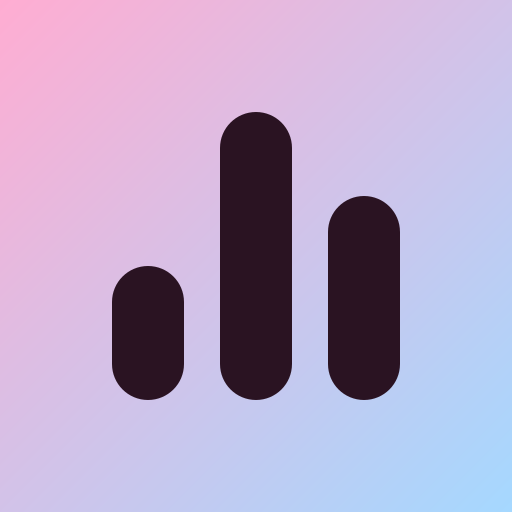
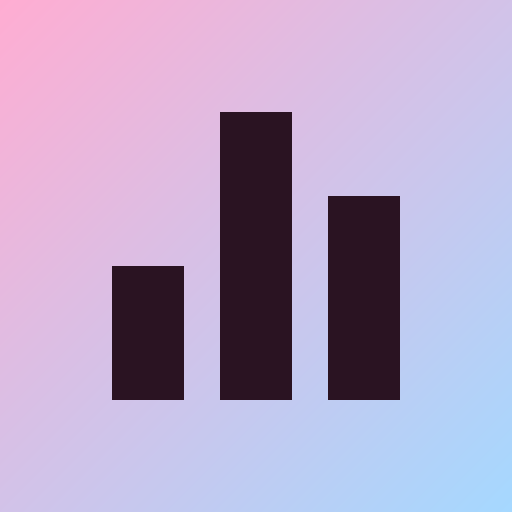
Square corners everywhere

diff --git a/style.css b/style.css
@@ -1,4 +1,4 @@
-/* Soft, rounded and tinted: pink is the main accent, baby blue the second one. */
+/* Tinted surfaces and square corners: pink is the main accent, baby blue the second one. */
 :root {
   color-scheme: dark;
   --bg: #15121b;
@@ -50,69 +50,66 @@ header {
 }
 h1 { margin: 0; font-size: 32px; font-weight: 800; letter-spacing: -0.02em; }
 h1::after { content: "."; color: var(--pink); }
-#sync { background: var(--blue-soft); color: var(--blue); font-size: 13px; font-weight: 500; padding: 5px 12px; border-radius: 999px; }
+#sync { background: var(--blue-soft); color: var(--blue); font-size: 13px; font-weight: 500; padding: 5px 12px; }
 #sync:empty { display: none; }
 
 #controls { padding: 0 16px; }
-.segments { display: flex; gap: 4px; background: var(--surface); border-radius: 999px; padding: 4px; margin-bottom: 10px; }
-.segments button { flex: 1; padding: 8px 0; border-radius: 999px; font-size: 14px; font-weight: 500; color: var(--muted); transition: background 0.2s var(--ease), color 0.2s; }
+.segments { display: flex; gap: 4px; background: var(--surface); padding: 4px; margin-bottom: 10px; }
+.segments button { flex: 1; padding: 8px 0; font-size: 14px; font-weight: 500; color: var(--muted); transition: background 0.2s var(--ease), color 0.2s; }
 .segments button[aria-pressed="true"] { background: var(--blue); color: var(--on-accent); font-weight: 600; }
 .chips { display: flex; gap: 6px; overflow-x: auto; padding-bottom: 12px; scrollbar-width: none; }
 .chips::-webkit-scrollbar { display: none; }
-.chips button { flex: none; padding: 7px 14px; border-radius: 999px; background: var(--surface); font-size: 14px; font-weight: 500; transition: background 0.2s var(--ease), color 0.2s; }
+.chips button { flex: none; padding: 7px 14px; background: var(--surface); font-size: 14px; font-weight: 500; transition: background 0.2s var(--ease), color 0.2s; }
 .chips button[aria-pressed="true"] { background: var(--pink); color: var(--on-accent); font-weight: 600; }
 .dates { display: flex; gap: 8px; align-items: center; padding-bottom: 12px; color: var(--muted); }
-.dates input { font: inherit; font-size: 14px; color: var(--text); background: var(--surface); border: 0; border-radius: 14px; padding: 8px 10px; min-width: 0; flex: 1; }
+.dates input { font: inherit; font-size: 14px; color: var(--text); background: var(--surface); border: 0; padding: 8px 10px; min-width: 0; flex: 1; }
 button:active { transform: scale(0.96); }
 
 main { flex: 1; overflow-y: auto; padding: 0 16px 110px; -webkit-overflow-scrolling: touch; }
 main.enter > * { animation: rise 0.2s var(--ease) both; }
 @keyframes rise { from { opacity: 0; transform: translateY(8px); } }
 .hint { color: var(--muted); text-align: center; margin: 40px 0; }
-.card { background: var(--surface); border-radius: 24px; padding: 16px; margin-bottom: 12px; }
+.card { background: var(--surface); padding: 16px; margin-bottom: 12px; }
 h2 { font-size: 14px; font-weight: 600; color: var(--blue); margin: 18px 8px 8px; }
 .card h2 { margin: 0 0 6px; color: var(--muted); }
 
-/* Lists: separate rounded items with a small gap; the group's ends are rounder. */
+/* Lists: separate items with a small gap. */
 .rows { display: flex; flex-direction: column; gap: 3px; }
-.row { display: flex; align-items: center; gap: 12px; padding: 10px 14px; background: var(--surface); border-radius: 8px; }
-.row:first-child { border-top-left-radius: 22px; border-top-right-radius: 22px; }
-.row:last-child { border-bottom-left-radius: 22px; border-bottom-right-radius: 22px; }
+.row { display: flex; align-items: center; gap: 12px; padding: 10px 14px; background: var(--surface); }
 .text { flex: 1; min-width: 0; }
 .name, .sub { white-space: nowrap; overflow: hidden; text-overflow: ellipsis; }
 .name { font-weight: 600; }
 .sub { color: var(--muted); font-size: 14px; }
 .side { color: var(--muted); font-size: 14px; font-variant-numeric: tabular-nums; flex: none; }
-.art { width: 46px; height: 46px; border-radius: 12px; background: var(--surface-2); object-fit: cover; flex: none; }
+.art { width: 46px; height: 46px; background: var(--surface-2); object-fit: cover; flex: none; }
 
 /* Now playing: the one loud card. */
-.playing { display: flex; align-items: center; gap: 14px; background: linear-gradient(120deg, var(--pink), var(--blue)); color: var(--on-accent); border-radius: 28px; }
-.playing .art { width: 68px; height: 68px; border-radius: 18px; background: rgb(0 0 0 / 0.15); }
+.playing { display: flex; align-items: center; gap: 14px; background: linear-gradient(120deg, var(--pink), var(--blue)); color: var(--on-accent); }
+.playing .art { width: 68px; height: 68px; background: rgb(0 0 0 / 0.15); }
 .playing .label { display: flex; align-items: center; gap: 6px; font-size: 13px; font-weight: 600; opacity: 0.8; }
 .playing .name { font-size: 18px; font-weight: 700; }
 .playing .sub { color: inherit; opacity: 0.8; }
 .eq { display: inline-flex; align-items: flex-end; gap: 2px; height: 11px; }
-.eq i { width: 3px; height: 100%; border-radius: 2px; background: currentColor; transform-origin: bottom; animation: eq 0.9s ease-in-out infinite alternate; }
+.eq i { width: 3px; height: 100%; background: currentColor; transform-origin: bottom; animation: eq 0.9s ease-in-out infinite alternate; }
 .eq i:nth-child(2) { animation-delay: -0.3s; }
 .eq i:nth-child(3) { animation-delay: -0.6s; }
 @keyframes eq { from { transform: scaleY(0.3); } to { transform: scaleY(1); } }
 
 /* Top lists: number one is a hero, two and three get a blue badge. */
-.rank { width: 28px; height: 28px; border-radius: 50%; display: grid; place-items: center; background: var(--surface-2); color: var(--muted); font-size: 13px; font-weight: 600; font-variant-numeric: tabular-nums; flex: none; }
+.rank { width: 28px; height: 28px; display: grid; place-items: center; background: var(--surface-2); color: var(--muted); font-size: 13px; font-weight: 600; font-variant-numeric: tabular-nums; flex: none; }
 .top .row:nth-child(-n+3) .rank { background: var(--blue-soft); color: var(--blue); }
-.top .row:first-child { background: var(--pink); color: var(--on-accent); padding: 18px 16px; border-radius: 28px; margin-bottom: 6px; }
+.top .row:first-child { background: var(--pink); color: var(--on-accent); padding: 18px 16px; margin-bottom: 6px; }
 .top .row:first-child .rank { background: var(--on-accent); color: var(--pink); width: 36px; height: 36px; font-size: 16px; }
 .top .row:first-child .name { font-size: 20px; font-weight: 700; }
 .top .row:first-child .sub, .top .row:first-child .side { color: inherit; opacity: 0.8; }
 .top .row:first-child .side { font-size: 18px; font-weight: 700; opacity: 1; }
-.top .row:nth-child(2) { border-top-left-radius: 22px; border-top-right-radius: 22px; }
-.meter { height: 4px; border-radius: 2px; background: var(--surface-2); margin-top: 6px; }
-.meter span { display: block; height: 100%; border-radius: 2px; background: var(--pink); }
+.meter { height: 4px; background: var(--surface-2); margin-top: 6px; }
+.meter span { display: block; height: 100%; background: var(--pink); }
 .top .row:first-child .meter { display: none; }
 
 /* Trends */
 .tiles { display: grid; grid-template-columns: repeat(3, 1fr); gap: 8px; margin-bottom: 12px; }
-.tile { background: var(--surface); border-radius: 22px; padding: 12px 14px; }
+.tile { background: var(--surface); padding: 12px 14px; }
 .tile:nth-child(1) { background: var(--pink-soft); }
 .tile:nth-child(1) .value { color: var(--pink); }
 .tile:nth-child(2) { background: var(--blue-soft); }
@@ -124,13 +121,13 @@ h2 { font-size: 14px; font-weight: 600; color: var(--blue); margin: 18px 8px 8px
 .bars { display: flex; align-items: stretch; gap: 2px; height: 150px; border-bottom: 2px solid var(--surface-2); }
 .bars button { flex: 1; min-width: 0; display: flex; align-items: flex-end; }
 .bars button:active { transform: none; }
-.bars span { width: 100%; min-height: 2px; border-radius: 6px 6px 0 0; background: var(--pink); opacity: 0.8; transition: opacity 0.15s; }
+.bars span { width: 100%; min-height: 2px; background: var(--pink); opacity: 0.8; transition: opacity 0.15s; }
 .bars button:hover span, .bars button:focus-visible span, .bars button[aria-pressed="true"] span { opacity: 1; background: var(--blue); }
 .axis { display: flex; justify-content: space-between; color: var(--muted); font-size: 12px; margin-top: 6px; }
 .clock { display: grid; grid-template-columns: 32px repeat(24, 1fr); gap: 2px; align-items: center; }
 .clock .day, .clock .hour { color: var(--muted); font-size: 11px; }
 .clock .hour { grid-column: span 6; }
-.clock button { aspect-ratio: 1; border-radius: 30%; background: var(--surface-2); }
+.clock button { aspect-ratio: 1; background: var(--surface-2); }
 .clock button:active { transform: none; }
 .clock button:hover, .clock button:focus-visible, .clock button[aria-pressed="true"] { outline: 2px solid var(--text); outline-offset: -1px; }
 
@@ -144,10 +141,9 @@ h2 { font-size: 14px; font-weight: 600; color: var(--blue); margin: 18px 8px 8px
   gap: 4px;
   padding: 6px;
   background: var(--surface-2);
-  border-radius: 999px;
   box-shadow: 0 8px 24px rgb(0 0 0 / 0.35);
 }
-#tabs button { display: flex; align-items: center; gap: 6px; padding: 10px 16px; border-radius: 999px; color: var(--muted); font-size: 14px; font-weight: 500; transition: background 0.2s var(--ease), color 0.2s; }
+#tabs button { display: flex; align-items: center; gap: 6px; padding: 10px 16px; color: var(--muted); font-size: 14px; font-weight: 500; transition: background 0.2s var(--ease), color 0.2s; }
 #tabs svg { width: 20px; height: 20px; fill: none; stroke: currentColor; stroke-width: 2; stroke-linecap: round; stroke-linejoin: round; }
 #tabs button[aria-pressed="true"] { background: var(--pink); color: var(--on-accent); font-weight: 600; }
 

diff --git a/desktop/qml/TrendsView.qml b/desktop/qml/TrendsView.qml
@@ -79,7 +79,6 @@ Item {
         property string title
         width: parent.width
         height: inner.height + 28
-        radius: 24
         color: Theme.surface
         Column {
             id: inner
@@ -96,7 +95,6 @@ Item {
         property color ink: Theme.text
         width: 160
         height: 70
-        radius: 22
         Column {
             x: 16
             anchors.verticalCenter: parent.verticalCenter
@@ -166,8 +164,6 @@ Item {
                                 anchors.bottom: parent.bottom
                                 width: parent.width
                                 height: Math.max(1, parent.height * modelData.plays / view.max)
-                                topLeftRadius: Math.min(6, width / 2)
-                                topRightRadius: Math.min(6, width / 2)
                                 color: view.hoverBar === index ? Theme.blue : Theme.pink
                                 opacity: view.hoverBar === index ? 1 : 0.8
                             }
@@ -177,7 +173,7 @@ Item {
                         }
                     }
                 }
-                Rectangle { width: parent.width; height: 2; radius: 1; color: Theme.surface2 }
+                Rectangle { width: parent.width; height: 2; color: Theme.surface2 }
                 Item {
                     width: parent.width
                     height: 16
@@ -215,18 +211,16 @@ Item {
                             height: grid.cell
                             Text { visible: hour < 0; anchors.verticalCenter: parent.verticalCenter; text: view.dayNames[dow]; color: Theme.muted; font.pixelSize: 11 }
                             // One hue, light to dark; empty hours keep the neutral colour.
-                            Rectangle { visible: hour >= 0; anchors.fill: parent; radius: width * 0.3; color: Theme.surface2 }
+                            Rectangle { visible: hour >= 0; anchors.fill: parent; color: Theme.surface2 }
                             Rectangle {
                                 visible: hour >= 0 && plays > 0
                                 anchors.fill: parent
-                                radius: width * 0.3
                                 color: Theme.blue
                                 opacity: 0.15 + 0.85 * plays / view.clockMax
                             }
                             Rectangle {
                                 visible: hour >= 0 && view.hoverCell === dow * 24 + hour
                                 anchors.fill: parent
-                                radius: width * 0.3
                                 color: "transparent"
                                 border.color: Theme.text
                                 border.width: 2

diff --git a/desktop/qml/RecentView.qml b/desktop/qml/RecentView.qml
@@ -61,13 +61,12 @@ Item {
             Rectangle {
                 width: parent.width
                 height: 100
-                radius: 28
                 gradient: Gradient {
                     orientation: Gradient.Horizontal
                     GradientStop { position: 0; color: Theme.pink }
                     GradientStop { position: 1; color: Theme.blue }
                 }
-                Cover { id: cover; x: 14; y: 14; width: 72; height: 72; radius: 18; source: view.nowPlaying ? view.nowPlaying.image : "" }
+                Cover { id: cover; x: 14; y: 14; width: 72; height: 72; source: view.nowPlaying ? view.nowPlaying.image : "" }
                 Column {
                     anchors { left: cover.right; right: parent.right; margins: 16; verticalCenter: parent.verticalCenter }
                     spacing: 1
@@ -97,7 +96,6 @@ Item {
             required property string time
             width: list.width
             height: 60
-            radius: 16
             color: Theme.surface
             Cover { id: art; x: 10; anchors.verticalCenter: parent.verticalCenter; width: 44; height: 44; source: parent.image }
             Column {

diff --git a/desktop/qml/TopView.qml b/desktop/qml/TopView.qml
@@ -111,7 +111,6 @@ Item {
             readonly property color ink: hero ? Theme.onAccent : Theme.text
             width: list.width
             height: hero ? 84 : 56
-            radius: hero ? 28 : 16
             color: hero ? Theme.pink : Theme.surface
 
             Rectangle {
@@ -120,7 +119,6 @@ Item {
                 anchors.verticalCenter: parent.verticalCenter
                 width: row.hero ? 38 : 28
                 height: width
-                radius: width / 2
                 color: row.hero ? Theme.onAccent : row.rank <= 3 ? Theme.blueSoft : Theme.surface2
                 Text {
                     anchors.centerIn: parent
@@ -156,9 +154,8 @@ Item {
                     visible: !row.hero
                     width: parent.width
                     height: 4
-                    radius: 2
                     color: Theme.surface2
-                    Rectangle { width: parent.width * row.plays / view.max; height: parent.height; radius: 2; color: Theme.pink }
+                    Rectangle { width: parent.width * row.plays / view.max; height: parent.height; color: Theme.pink }
                 }
             }
             Text {

diff --git a/desktop/qml/Main.qml b/desktop/qml/Main.qml
@@ -55,7 +55,6 @@ ApplicationWindow {
         Rectangle {
             Layout.fillHeight: true
             Layout.preferredWidth: 190
-            radius: 28
             color: Theme.surface
 
             ColumnLayout {
@@ -90,7 +89,6 @@ ApplicationWindow {
                             Text { anchors.verticalCenter: parent.verticalCenter; text: nav.modelData[0]; color: nav.ink; font.pixelSize: 14; font.weight: nav.selected ? Font.DemiBold : Font.Medium }
                         }
                         background: Rectangle {
-                            radius: height / 2
                             color: nav.selected ? Theme.pink : nav.hovered ? Theme.surface2 : "transparent"
                             Behavior on color { ColorAnimation { duration: Theme.motion } }
                         }
@@ -101,7 +99,6 @@ ApplicationWindow {
                     visible: window.syncText !== ""
                     Layout.fillWidth: true
                     implicitHeight: syncLabel.implicitHeight + 16
-                    radius: 18
                     color: Theme.blueSoft
                     Text {
                         id: syncLabel

diff --git a/desktop/qml/Cover.qml b/desktop/qml/Cover.qml
@@ -1,28 +1,14 @@
 import QtQuick
-import QtQuick.Effects
 
-// Album art with rounded corners; a plain tile while there is none.
-Item {
-    id: cover
+// Album art; a plain tile while there is none.
+Rectangle {
     property string source
-    property real radius: 12
-
-    Rectangle { anchors.fill: parent; radius: cover.radius; color: Theme.surface2 }
+    color: Theme.surface2
     Image {
-        id: image
         anchors.fill: parent
-        source: cover.source
+        source: parent.source
         sourceSize: Qt.size(160, 160)
         fillMode: Image.PreserveAspectCrop
         asynchronous: true
-        visible: false
-    }
-    Rectangle { id: mask; anchors.fill: parent; radius: cover.radius; visible: false; layer.enabled: true }
-    MultiEffect {
-        anchors.fill: parent
-        source: image
-        maskEnabled: true
-        maskSource: mask
-        visible: image.status === Image.Ready
     }
 }

diff --git a/desktop/qml/Chip.qml b/desktop/qml/Chip.qml
@@ -22,7 +22,6 @@ AbstractButton {
         verticalAlignment: Text.AlignVCenter
     }
     background: Rectangle {
-        radius: height / 2
         color: chip.selected ? chip.tint : chip.hovered ? Theme.surface2 : Theme.surface
         Behavior on color { ColorAnimation { duration: Theme.motion } }
     }

diff --git a/desktop/qml/PeriodBar.qml b/desktop/qml/PeriodBar.qml
@@ -32,7 +32,6 @@ Flow {
         placeholderTextColor: Theme.muted
         font.pixelSize: 13
         background: Rectangle {
-            radius: 14
             color: Theme.surface
             border.color: parent.activeFocus ? Theme.pink : "transparent"
         }

diff --git a/docs/index.md b/docs/index.md
@@ -20,10 +20,9 @@ Last.fm only offers top lists for fixed periods and is slow. The Worker copies e
 - `desktop/qml/*.qml`, `desktop/main.cpp` – desktop app.
 
 ## Look
-Tinted dark surfaces with pink as the main accent and baby blue as the second (light variants follow the system). Big rounded shapes, pill chips, one loud gradient card for now playing, a hero card for number one in Top. Charts: bars are pink, the listening clock is blue. Motion is short on purpose: 200 ms fades and an 8 px rise, nothing travels across the screen.
+Tinted dark surfaces with pink as the main accent and baby blue as the second (light variants follow the system). Square corners everywhere (no rounding, by request), one loud gradient card for now playing, a hero card for number one in Top. Charts: bars are pink, the listening clock is blue. Motion is short on purpose: 200 ms fades and an 8 px rise, nothing travels across the screen.
 - Colours live in `style.css` (`:root`) and `desktop/qml/Theme.qml`: change both together.
 - Font is Rubik (Google Fonts on the site, the installed font on the desktop). Desktop sidebar icons are ligatures of the installed Material Symbols Rounded font.
-- `desktop/qml/Cover.qml` rounds album art with a `MultiEffect` mask, which needs a GPU: with `QT_QUICK_BACKEND=software` covers stay blank.
 
 ## Worker API
 All `GET`, JSON, public. `from`/`to` are unix seconds (`from` inclusive, `to` exclusive, default: everything up to now).
